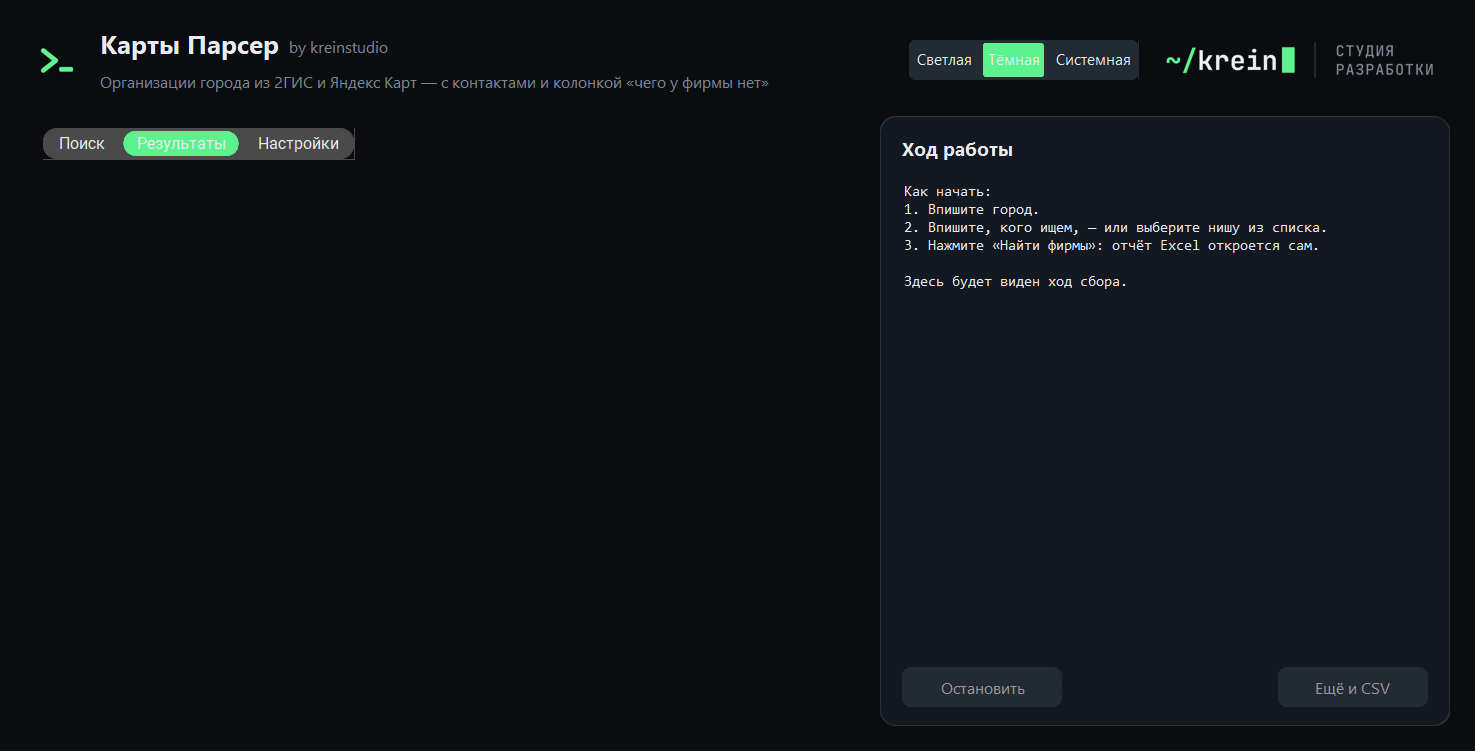
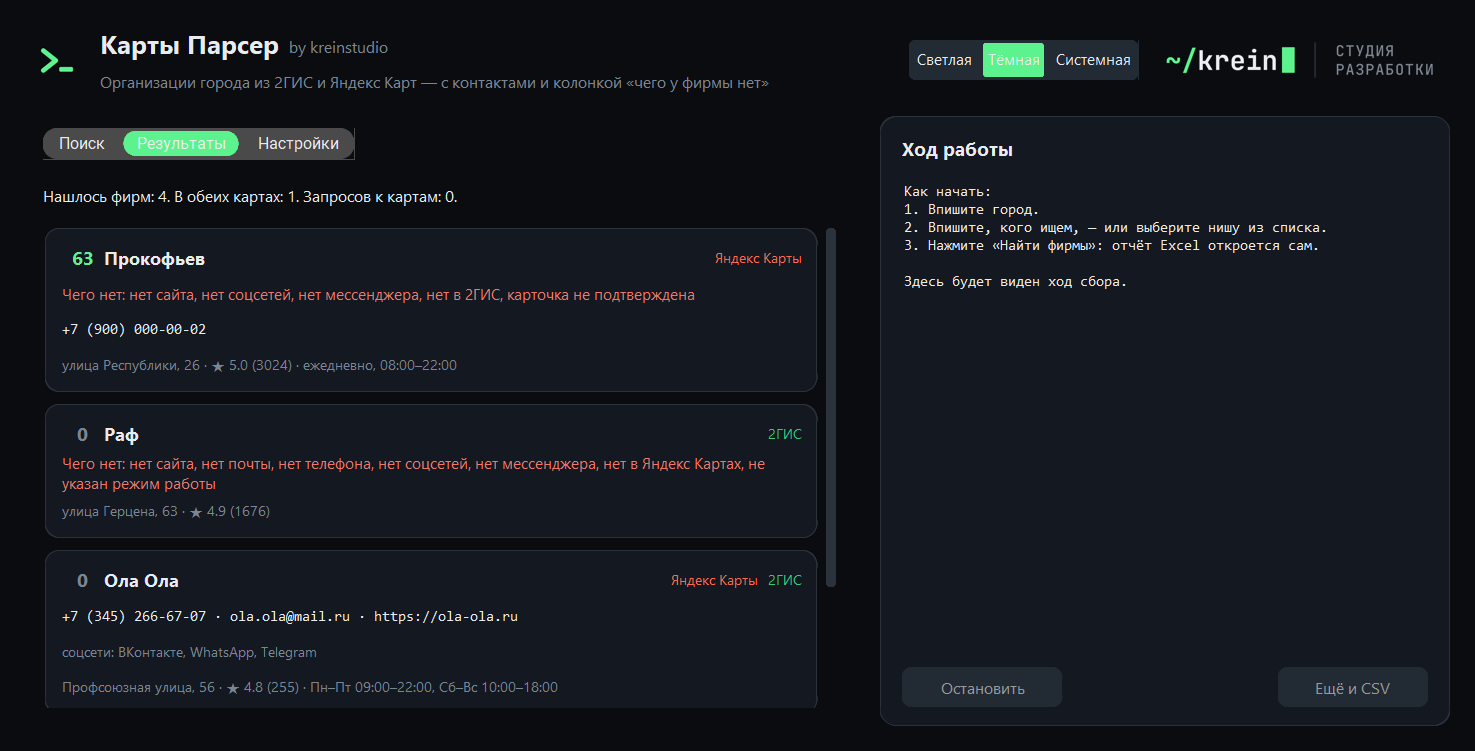
Продающий README и починка снимка вкладки результатов
README под поиск: заголовок с «парсер 2ГИС и Яндекс Карт», разбор колонки
«чего у фирмы нет», честная таблица потолков обеих карт, ответы на вопросы
про законность и отличия от других парсеров, ссылки на соседние проекты.

Прокручиваемую вкладку теперь наполняем после старта окна — до mainloop её
холст ещё не разложен, и на снимок попадало пустое место.

diff --git a/tools/screenshot.py b/tools/screenshot.py
@@ -34,16 +34,21 @@ def main() -> int:
     app._set_appearance("Светлая" if mode == "light" else "Тёмная")
     set_entry(app.city, CITY.name)
     set_entry(app.query, "кофейня")
-    app._show_places(demo_result())
-    app.tabs.set(tab)
+
+    def prepare() -> None:
+        # Прокручиваемую вкладку наполняем после старта окна: до mainloop её холст
+        # ещё не разложен, и на снимок попадает пустое место.
+        app._show_places(demo_result())
+        app.tabs.set(tab)
 
     def shoot() -> None:
-        app.update_idletasks()
+        app.update()
         window_capture.save(app, target)
         print(f"Снимок: {target}")
         app.destroy()
 
-    app.after(1200, shoot)
+    app.after(400, prepare)
+    app.after(1800, shoot)
     app.mainloop()
     return 0
 

diff --git a/mapsparser/excel.py b/mapsparser/excel.py
@@ -193,7 +193,7 @@ def _fill_summary(sheet: Worksheet, result: Result) -> None:
 
     rows += [
         ("", ""),
-        ("Как читать «Оценка»", "0–100: чем больше пробелов, тем выше. 0 — связаться не с кем"),
+        ("Как читать «Оценка»", "0–100: чем больше пробелов, тем выше. 0 — либо всё на месте, либо связаться не с кем"),
         ("Откуда данные", "открытые страницы 2ГИС и Яндекс Карт, без ключей и регистрации"),
         ("О чём помнить", "карты показывают не всё: у 2ГИС выдача ограничена, у Яндекса — листание"),
     ]

diff --git a/README.md b/README.md
@@ -1,0 +1,227 @@
+<a href="https://kreinstudio.ru/">
+  <picture>
+    <source media="(prefers-color-scheme: dark)" srcset="assets/brand/logo-dark@2x.png">
+    <img src="assets/brand/logo-light@2x.png" alt="krein — студия разработки" width="260">
+  </picture>
+</a>
+
+# Парсер 2ГИС и Яндекс Карт — организации города в Excel: телефоны, почты, сайты и чего у фирмы нет
+
+[![Тесты](https://github.com/krein15/maps-parser/actions/workflows/tests.yml/badge.svg)](https://github.com/krein15/maps-parser/actions/workflows/tests.yml)
+
+Программа собирает организации города из [2ГИС](https://2gis.ru) и [Яндекс Карт](https://yandex.ru/maps),
+сводит одну и ту же фирму из двух карт в одну строку и складывает всё в Excel: название, адрес, телефон,
+**почта**, сайт, соцсети и мессенджеры, рейтинг, число отзывов, режим работы и ссылки на карточки.
+
+И ещё одна колонка, которой нет ни у одного парсера карт, — **«чего у фирмы нет»**.
+
+> **Статус: версия 0.1.** Работают обе карты, сведение фирм, пробелы с оценкой, отчёт Excel и CSV, окно и
+> командная строка. Разведка источников с проверенными потолками — [docs/recon.md](docs/recon.md).
+
+[Скачать программу для Windows](https://github.com/krein15/maps-parser/releases/latest) — Python не нужен.
+[Пример отчёта](docs/example/example-report.xlsx).
+
+![Окно программы](docs/screenshots/app-search.png)
+
+## Зачем колонка «чего у фирмы нет»
+
+Обычный парсер карт отдаёт то, что у фирмы **есть**: вот название, вот телефон, вот адрес. Для холодных
+продаж ценнее обратное. Когда собираешь шестёрку фирм в своей нише, самым полезным оказывается не их
+телефон, а то, что у двоих нет почты вообще, а у одного нет сайта — при тридцати девяти отзывах. Это и есть
+крючок: сразу видно, с чем к ним заходить.
+
+Программа считает по каждой фирме тринадцать видов пробелов:
+
+| Пробел | С чем заходить |
+|---|---|
+| нет сайта | сделать сайт или хотя бы страницу-визитку |
+| нет почты | писать некуда — только звонок или мессенджер |
+| нет соцсетей | нет площадки, где показывают работы |
+| нет мессенджера | заявку некуда написать с телефона |
+| нет в Яндекс Картах / нет в 2ГИС | фирму не находят в одной из карт |
+| нет отзывов, мало отзывов | карточку никто не ведёт |
+| рейтинг ниже 4 | репутацию надо чинить |
+| карточка не подтверждена | владелец её не забрал |
+| нет фотографий | фирму не видно глазами |
+| не указан режим работы | клиент не знает, когда приходить |
+
+Каждому пробелу назначен вес, из них складывается **оценка от 0 до 100**: чем больше у фирмы дыр, тем выше
+она в списке обзвона. Если связаться не с кем вообще — ни телефона, ни почты, ни соцсетей — оценка нулевая,
+сколько бы пробелов ни нашлось: такая строка в списке бесполезна.
+
+Два правила, из-за которых пробелы считаются честно, а не «в лоб»:
+
+- **«Нет почты» пишется, только если фирму видел 2ГИС.** Яндекс почту не публикует никогда, и по его данным
+  вывод был бы о пробеле источника, а не о фирме.
+- **«Нет в 2ГИС» пишется, только если 2ГИС показал по запросу всё.** Если сбор упёрся в заданное число фирм,
+  отсутствие ничего не доказывает.
+
+![Результаты](docs/screenshots/app-results.png)
+
+## Что внутри отчёта
+
+Лист **«Фирмы»** — строка на фирму: название, чего нет, оценка, что с этим делать, рубрика, адрес, телефоны,
+почты, сайты, соцсети и мессенджеры, рейтинг, число оценок, режим работы, какие карты её знают, ссылки на
+карточку в каждой карте и координаты. Фильтры и закрепление шапки уже включены, оценка подсвечена шкалой.
+
+Лист **«Сводка»** — разбор сбора: что искали, где, сколько фирм нашлось, сколько из них есть в обеих картах,
+сколько было запросов, сколько заняло времени, упёрся ли источник в свой потолок и каких пробелов сколько.
+
+Рядом с Excel по желанию кладётся CSV с разделителем «точка с запятой» и BOM — он открывается двойным
+щелчком в русском Excel и заливается в CRM.
+
+## Откуда берутся данные
+
+Из открытых страниц обеих карт — тех самых, которые видит любой человек, открывший 2ГИС или Яндекс Карты в
+браузере. **Ни ключей API, ни регистрации, ни браузера внутри программы не нужно:** обе карты собирают
+страницы на сервере и отдают готовые данные обычному HTTP-запросу. Поэтому программа весит сорок мегабайт,
+а не триста, и работает заметно быстрее парсеров на Selenium.
+
+Карты дополняют друг друга, и это главное, что даёт сбор сразу из двух:
+
+| | 2ГИС | Яндекс Карты |
+|---|---|---|
+| Организаций за один запрос | 12, максимум 5 страниц | 25, листается далеко |
+| Контакты | только в карточке фирмы | сразу в выдаче |
+| Почта | **есть** | нет никогда |
+| Подтверждена ли карточка | не показывает | показывает |
+| Сколько фотографий | не показывает | показывает |
+
+Яндекс даёт объём дёшево, 2ГИС — почты и соцсети, но по запросу на фирму. Сведённые вместе, они дают строку
+полнее, чем любая из карт по отдельности.
+
+**Про потолки честно.** Выдача 2ГИС отдаёт не больше 60 организаций на запрос — поэтому при большом сборе
+программа режет город на участки по карте и обходит их по очереди. Выдача Яндекса листается, пока приходят
+новые фирмы. В сводке отчёта прямо написано, упёрся ли источник в свой потолок: «выгрузили всё» — обещание,
+которого карты не дают никому.
+
+Сбор идёт в один поток с паузой между запросами, как у обычного посетителя: разделы, закрытые в `robots.txt`,
+не трогаются, защита не обходится, капча не ломается. Собираются сведения об организациях, которые они сами
+опубликовали на карте, — не персональные данные частных лиц.
+
+## Окно
+
+```bash
+pip install -r requirements.txt
+python app.py
+```
+
+Первый экран — три шага: город, кого ищем, кнопка «Найти фирмы». Отчёт Excel открывается сам.
+
+- **Поиск** — город с подсказкой, ниша из готового списка (кофейня, автосервис, стоматология, салон красоты,
+  ремонт квартир, грузоперевозки и ещё два десятка) или своё слово, объём сбора, галочки карт и фильтр
+  «только те, у кого нет сайта».
+- **Результаты** — карточки фирм: оценка, чего не хватает, контакты, рейтинг, режим работы; по щелчку на
+  название карты открывается карточка фирмы в 2ГИС или Яндексе.
+- **Настройки** — пауза между запросами, папка отчётов, открывать ли отчёт сразу, нужно ли открывать карточки
+  2ГИС ради почты, кэш страниц.
+
+Справа — ход работы и кнопка «Остановить»: собранное к этому моменту сохраняется. Тёмная тема переключается
+в шапке.
+
+![Тёмная тема](docs/screenshots/app-dark.png)
+
+## Командная строка
+
+Всё то же самое доступно из консоли — удобно для запуска по расписанию:
+
+```bash
+python -m mapsparser collect -q кофейня -c Тюмень
+```
+
+```bash
+python -m mapsparser collect -q автосервис -c Казань --gap website --limit 600 --csv
+```
+
+| Команда | Что делает |
+|---|---|
+| `collect` | собрать фирмы и сделать отчёт |
+| `cities` | города, которые программа знает |
+| `sources` | какие карты подключены и что каждая отдаёт |
+| `gaps` | какие пробелы умеет находить и сколько весит каждый |
+| `cache` | сохранённые страницы: размер, очистить |
+
+Полезные ключи `collect`: `--source 2gis` (только одна карта), `--limit` (сколько брать с каждой карты),
+`--gap website` (оставить только фирмы без сайта), `--min-score 40`, `--no-deep` (быстро, но без почт),
+`--delay` (пауза между запросами), `--csv`, `--out`, `--open`.
+
+Собранный `MapsParser.exe` работает так же: без аргументов открывает окно, с аргументами — командная строка.
+
+## Города
+
+В справочнике больше ста городов России — все миллионники и большинство крупных. Яндексу название города
+достаточно передать текстом, 2ГИС просит короткое имя в адресе (`2gis.ru/tyumen`), и эти имена проверены
+на сайте. Нужного города нет — добавьте его одной командой:
+
+```bash
+python tools/update_cities.py Сургут
+```
+
+## Установка из исходников
+
+```bash
+git clone https://github.com/krein15/maps-parser.git
+cd maps-parser
+python -m venv .venv
+.venv\Scripts\pip install -r requirements-dev.txt
+.venv\Scripts\python app.py
+```
+
+Нужен Python 3.12 или новее. Сборка своей версии программы:
+
+```bash
+.venv\Scripts\python -m PyInstaller MapsParser.spec --noconfirm
+```
+
+## Как это проверено
+
+```bash
+.venv\Scripts\python -m pytest -q
+```
+
+Сто девятнадцать тестов, и ни один не ходит в сеть: они разбирают сохранённые страницы из `tests/fixtures`,
+нарочно набитые ловушками настоящих источников — телефон через знак U+2012, сайт за счётчиком переходов
+`link.2gis.ru`, ссылка на телеграм в поле «сайт», дом вместо организации в выдаче 2ГИС, рекламная подборка
+и фирма из соседнего города у Яндекса. Отдельно проверено, что филиалы сети не слипаются в одну строку:
+у сетевой кофейни на весь город один сайт и часто один телефон, и склеить их — значит соврать в отчёте.
+
+Собранная программа проверена вживую: сбор по Тюмени дал 44 фирмы за 39 секунд, из них 14 с почтой.
+
+## Добавить свою карту
+
+Источник описывается одним объектом — ключ, название, цвет, сборщик и перечень того, что карта в принципе
+умеет отдавать. Из этого описания собираются окно, флаги командной строки, колонки отчёта и логика пробелов;
+ядро не знает ни одного источника по имени. Новая карта подключается точкой входа `mapsparser.sources` —
+поставили пакет, и она появилась везде сама. Смотрите [mapsparser/sources/base.py](mapsparser/sources/base.py).
+
+## Вопросы, которые задают первыми
+
+**Это законно?** Программа читает открытые страницы карт так же, как это делает посетитель: не обходит
+защиту, не ломает капчу, не лезет в разделы, закрытые в `robots.txt`, и собирает только те сведения об
+организациях, которые они сами опубликовали. Официальные API сюда не годятся по условиям самих площадок:
+Яндекс в API поиска по организациям прямо запрещает сохранять результаты, а у 2ГИС контакты в Places API —
+отдельное платное разрешение на ключ. Подробнее — в [разведке](docs/recon.md).
+
+**Чем отличается от других парсеров карт?** Тремя вещами: две карты сводятся в одну строку, у фирм
+находятся почты (их отдаёт только 2ГИС), и есть колонка «чего у фирмы нет» с оценкой лида.
+
+**Сколько занимает сбор?** Зависит от объёма. Две-три сотни фирм с открытием карточек 2ГИС — несколько минут.
+Пауза между запросами настраивается, но уменьшать её без нужды не стоит: карты этого не любят.
+
+**Можно ли собрать всю Россию разом?** Нет, и никакой парсер карт этого честно не обещает: обе выдачи
+ограничены. Программа работает по городу и нише — так и задумано.
+
+## Автор
+
+Николай Бондаренко, [krein studio](https://kreinstudio.ru/) — разработка парсеров, ботов и программ под задачу.
+
+- Telegram: [@krein1](https://t.me/krein1)
+- Почта: kreinwork1@gmail.com
+- Другие проекты: [парсер маркетплейсов](https://github.com/krein15/marketplace-parser),
+  [парсер госзакупок](https://github.com/krein15/zakupki-parser)
+
+Нужен сбор под вашу нишу, другой источник или выгрузка прямо в вашу CRM — напишите.
+
+## Лицензия
+
+[MIT](LICENSE) — пользуйтесь, меняйте, встраивайте в свои проекты.
